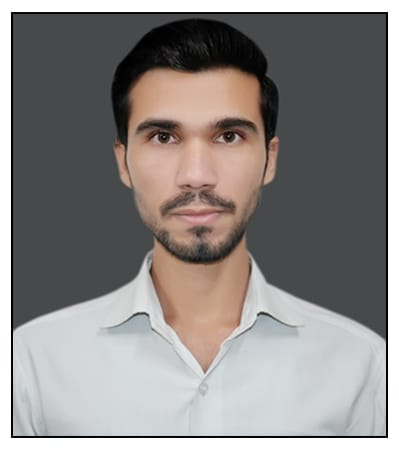
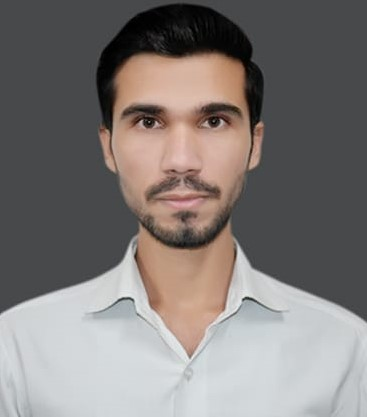
changed the ser image

Changed region(s): [[0.0, 0.0, 1.0, 1.0], [0.7193, 0.6547, 0.9292, 0.7482], [0.4496, 0.4676, 0.4796, 0.4988]]

diff --git a/index.html b/index.html
@@ -40,7 +40,7 @@
         <div class="container">
             <div class="row"> 
                 <div class="about-col-1">
-                    <img src="images/vishal-white.png" >
+                    <img src="images/vishal-profile.jpg" >
                 </div>
                 <div class="about-col-2">
                     <h1 class="sub-title">About me </h1>

diff --git a/style.css b/style.css
@@ -100,6 +100,7 @@ nav ul li a:hover::after{
     flex-basis: 35%;
 }
 .about-col-1 img{
+    /* height: 70%; */
     width: 100%;
     border-radius: 15px;
 }
